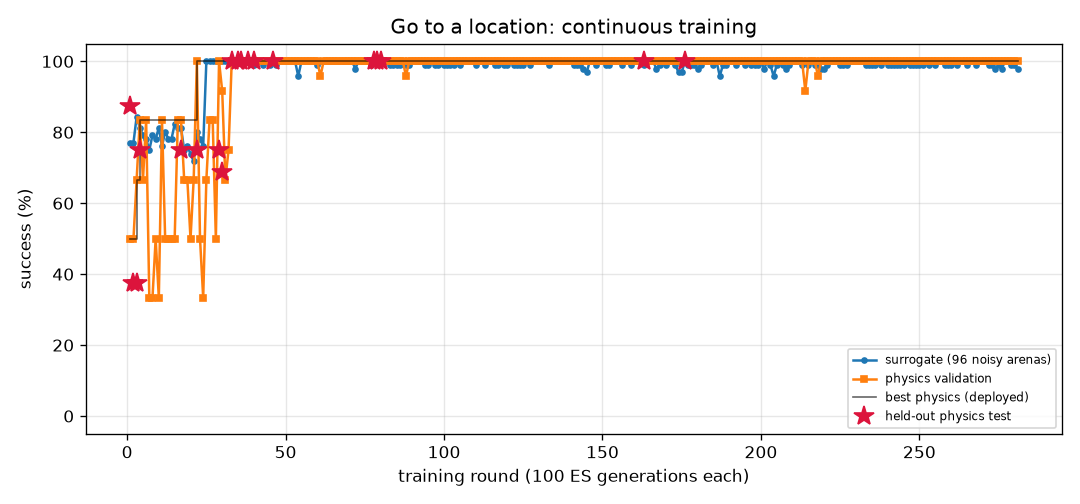
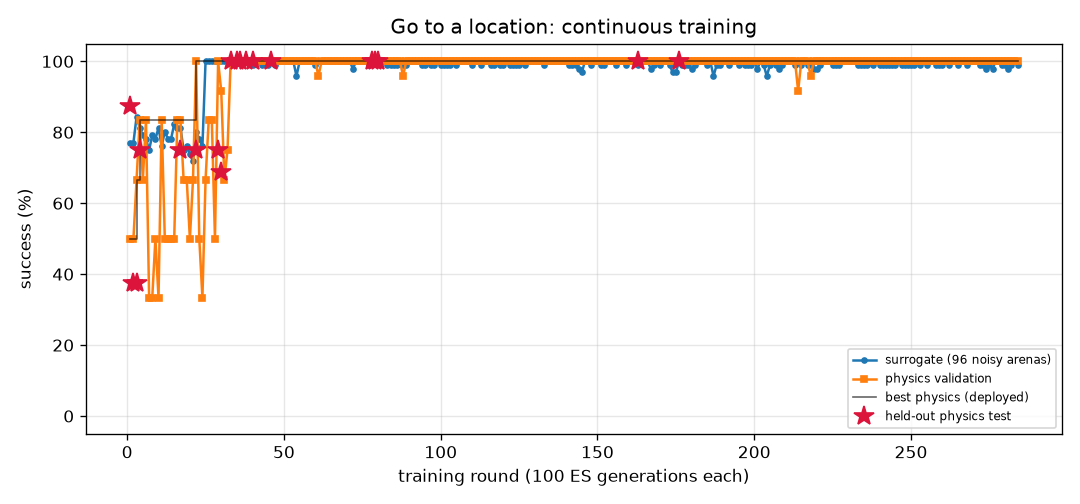
FlyLab: continuous training progress
- walk_forward: optimal, physics val 100% of 24, round 356
- turn: optimal, physics val 100% of 24, round 973
- goto: optimal, physics val 100% of 24, round 284
- odor_seek: optimal, physics val 100% of 24, round 232
- odor_avoid: optimal, physics val 100% of 24, round 867
- light_seek: optimal, physics val 100% of 24, round 478
- light_avoid: optimal, physics val 100% of 24, round 602

diff --git a/projects/09_flylab/training/odor_seek/REPORT.md b/projects/09_flylab/training/odor_seek/REPORT.md
@@ -1,14 +1,14 @@
 # Find food by smell (`odor_seek`) — training report
 
-*Auto-generated by `train_brains.py`, last updated 2026-11-09T19:07:03.*
+*Auto-generated by `train_brains.py`, last updated 2026-11-09T22:42:48.*
 
 ![curve](curve.png)
 
 | | |
 |---|---|
-| rounds | 228 |
-| ES generations | 22800 |
-| physics runs | 4902 |
+| rounds | 232 |
+| ES generations | 23200 |
+| physics runs | 4998 |
 | status | **optimal** |
 | best brain | round 137: physics validation **100%** on 24 arenas, surrogate 100% |
 | held-out physics test | **100%** on 32 unseen arenas (95% CI 89%-100%) (errors: [0.14, 0.05, 0.19, 0.15, 0.13, 0.08, 0.06, 0.06, 0.04, 0.06, 0.02, 0.11, 0.05, 0.1, 0.06, 0.01, 0.11, 0.12, 0.14, 0.08, 0.12, 0.06, 0.06, 0.09, 0.12, 0.05, 0.07, 0.07, 0.12, 0.11, 0.06, 0.11]) |
@@ -17,10 +17,6 @@ Physics error per arena: mm from target at the end (< 1.5 and standing still = s
 
 | round | level | gens | sigma | surrogate | physics val | val errors | test | note |
 |---:|---:|---:|---:|---:|---:|---|---:|---|
-| 189 | 3 | 18900 | 0.024 | 100% | 100% | [0.16, 0.16, 0.14, 0.19, 0.12, 0.08, 0.12, 0.2, 0.12, 0.16, 0.17, 0.2, 0.16, 0.22, 0.18, 0.16, 0.2, 0.18, 0.17, 0.12, 0.13, 0.15, 0.18, 0.19] |  | restart from best |
-| 190 | 3 | 19000 | 0.024 | 100% | 100% | [0.19, 0.17, 0.11, 0.12, 0.1, 0.14, 0.12, 0.18, 0.2, 0.12, 0.18, 0.08, 0.07, 0.18, 0.2, 0.08, 0.09, 0.09, 0.15, 0.14, 0.14, 0.14, 0.07, 0.16] |  |  |
-| 191 | 3 | 19100 | 0.024 | 100% | 100% | [0.1, 0.09, 0.14, 0.09, 0.1, 0.1, 0.08, 0.15, 0.1, 0.1, 0.09, 0.1, 0.08, 0.09, 0.08, 0.08, 0.11, 0.13, 0.17, 0.09, 0.11, 0.16, 0.14, 0.13] |  |  |
-| 192 | 3 | 19200 | 0.024 | 100% | 96% | [0.08, 0.15, 0.13, 0.07, 0.09, 0.15, 0.1, 0.09, 0.2, 0.09, 0.09, 0.11, 1.32, 0.1, 0.13, 0.14, 0.06, 0.12, 0.12, 0.13, 0.17, 0.19, 0.09, 0.14] |  |  |
 | 193 | 3 | 19300 | 0.024 | 100% | 100% | [0.14, 0.11, 0.2, 0.13, 0.18, 0.17, 0.09, 0.16, 0.16, 0.13, 0.14, 0.15, 0.16, 0.18, 0.18, 0.21, 0.14, 0.17, 0.14, 0.12, 0.2, 0.15, 0.13, 0.18] |  | restart from best |
 | 194 | 3 | 19400 | 0.024 | 100% | 100% | [0.17, 0.21, 0.27, 0.18, 0.2, 0.11, 0.2, 0.19, 0.15, 0.26, 0.14, 0.17, 0.23, 0.12, 0.14, 0.22, 0.14, 0.17, 0.2, 0.13, 0.16, 0.16, 0.19, 0.21] |  |  |
 | 195 | 3 | 19500 | 0.024 | 100% | 100% | [0.24, 0.13, 0.21, 0.12, 0.14, 0.18, 0.18, 0.16, 0.15, 0.19, 0.16, 0.17, 0.13, 0.2, 0.19, 0.18, 0.17, 0.19, 0.21, 0.14, 0.19, 0.22, 0.16, 0.11] |  |  |
@@ -57,3 +53,7 @@ Physics error per arena: mm from target at the end (< 1.5 and standing still = s
 | 226 | 3 | 22600 | 0.024 | 100% | 100% | [0.13, 0.1, 0.03, 0.11, 0.07, 0.1, 0.02, 0.11, 0.06, 0.05, 0.02, 0.11, 0.02, 0.13, 0.04, 0.08, 0.04, 0.07, 0.06, 0.12, 0.16, 0.15, 0.02, 0.1] |  |  |
 | 227 | 3 | 22700 | 0.024 | 100% | 100% | [0.13, 0.15, 0.15, 0.11, 0.04, 0.12, 0.16, 0.14, 0.21, 0.08, 0.18, 0.16, 0.2, 0.14, 0.18, 0.07, 0.09, 0.12, 0.15, 0.15, 0.19, 0.2, 0.23, 0.15] |  |  |
 | 228 | 3 | 22800 | 0.024 | 100% | 100% | [0.16, 0.21, 0.12, 0.13, 0.16, 0.19, 0.13, 0.27, 0.22, 0.12, 0.13, 0.14, 0.09, 0.11, 0.16, 0.11, 0.13, 0.13, 0.19, 0.18, 0.12, 0.11, 0.2, 0.1] |  |  |
+| 229 | 3 | 22900 | 0.024 | 100% | 100% | [0.11, 0.19, 0.14, 0.21, 0.17, 0.09, 0.18, 0.19, 0.14, 0.11, 0.23, 0.16, 0.09, 0.19, 0.17, 0.24, 0.18, 0.12, 0.11, 0.17, 0.25, 0.08, 0.15, 0.11] |  | restart from best |
+| 230 | 3 | 23000 | 0.024 | 100% | 100% | [0.23, 0.22, 0.22, 0.19, 0.21, 0.21, 0.24, 0.17, 0.17, 0.25, 0.22, 0.22, 0.28, 0.19, 0.22, 0.21, 0.15, 0.18, 0.27, 0.33, 0.23, 0.24, 0.18, 0.22] |  |  |
+| 231 | 3 | 23100 | 0.024 | 100% | 100% | [0.14, 0.17, 0.22, 0.24, 0.18, 0.19, 0.17, 0.23, 0.17, 0.17, 0.22, 0.21, 0.22, 0.22, 0.15, 0.18, 0.15, 0.17, 0.13, 0.3, 0.18, 0.15, 0.14, 0.25] |  |  |
+| 232 | 3 | 23200 | 0.024 | 100% | 100% | [0.23, 0.14, 0.16, 0.19, 0.16, 0.19, 0.17, 0.22, 0.19, 0.17, 0.19, 0.2, 0.16, 0.21, 0.16, 0.22, 0.14, 0.18, 0.19, 0.14, 0.16, 0.17, 0.13, 0.18] |  |  |

diff --git a/projects/09_flylab/training/goto/REPORT.md b/projects/09_flylab/training/goto/REPORT.md
@@ -1,14 +1,14 @@
 # Go to a location (`goto`) — training report
 
-*Auto-generated by `train_brains.py`, last updated 2026-11-09T21:45:51.*
+*Auto-generated by `train_brains.py`, last updated 2026-11-09T22:29:16.*
 
 ![curve](curve.png)
 
 | | |
 |---|---|
-| rounds | 281 |
-| ES generations | 28100 |
-| physics runs | 6694 |
+| rounds | 284 |
+| ES generations | 28400 |
+| physics runs | 6766 |
 | status | **optimal** |
 | best brain | round 176: physics validation **100%** on 24 arenas, surrogate 100% |
 | held-out physics test | **100%** on 32 unseen arenas (95% CI 89%-100%) (errors: [0.2, 0.32, 0.19, 0.24, 0.18, 0.2, 0.19, 0.17, 0.22, 0.23, 0.23, 0.26, 0.2, 0.19, 0.24, 0.23, 0.22, 0.24, 0.2, 0.22, 0.2, 0.2, 0.26, 0.19, 0.22, 0.18, 0.26, 0.22, 0.2, 0.26, 0.23, 0.23]) |
@@ -17,9 +17,6 @@ Physics error per arena: mm from target at the end (< 1.5 and standing still = s
 
 | round | level | gens | sigma | surrogate | physics val | val errors | test | note |
 |---:|---:|---:|---:|---:|---:|---|---:|---|
-| 242 | 3 | 24200 | 0.025 | 99% | 100% | [0.63, 0.56, 0.55, 0.48, 0.44, 0.44, 0.62, 0.5, 0.45, 0.44, 0.42, 0.47, 0.58, 0.42, 0.52, 0.49, 0.61, 0.47, 0.43, 0.55, 0.46, 0.45, 0.57, 0.47] |  |  |
-| 243 | 3 | 24300 | 0.025 | 99% | 100% | [0.69, 0.66, 0.64, 0.55, 0.51, 0.54, 0.65, 0.62, 0.61, 0.51, 0.49, 0.54, 0.64, 0.53, 0.55, 0.57, 0.71, 0.56, 0.5, 0.6, 0.55, 0.53, 0.69, 0.56] |  |  |
-| 244 | 3 | 24400 | 0.025 | 99% | 100% | [0.59, 0.55, 0.56, 0.42, 0.42, 0.41, 0.57, 0.51, 0.47, 0.4, 0.39, 0.43, 0.52, 0.4, 0.46, 0.5, 0.57, 0.46, 0.38, 0.47, 0.45, 0.4, 0.54, 0.41] |  | restart from best |
 | 245 | 3 | 24500 | 0.024 | 99% | 100% | [0.66, 0.56, 0.54, 0.55, 0.47, 0.52, 0.64, 0.53, 0.58, 0.48, 0.48, 0.55, 0.63, 0.42, 0.56, 0.51, 0.67, 0.56, 0.48, 0.63, 0.48, 0.54, 0.59, 0.56] |  |  |
 | 246 | 3 | 24600 | 0.025 | 100% | 100% | [0.28, 0.33, 0.26, 0.33, 0.28, 0.31, 0.31, 0.36, 0.36, 0.29, 0.28, 0.33, 0.31, 0.33, 0.3, 0.37, 0.3, 0.31, 0.28, 0.33, 0.35, 0.3, 0.3, 0.33] |  |  |
 | 247 | 3 | 24700 | 0.024 | 99% | 100% | [0.51, 0.44, 0.45, 0.38, 0.34, 0.34, 0.51, 0.38, 0.41, 0.35, 0.34, 0.39, 0.44, 0.34, 0.43, 0.41, 0.49, 0.36, 0.34, 0.44, 0.38, 0.38, 0.46, 0.36] |  |  |
@@ -57,3 +54,6 @@ Physics error per arena: mm from target at the end (< 1.5 and standing still = s
 | 279 | 3 | 27900 | 0.024 | 99% | 100% | [0.39, 0.36, 0.29, 0.4, 0.29, 0.36, 0.37, 0.42, 0.41, 0.3, 0.35, 0.39, 0.4, 0.3, 0.28, 0.31, 0.41, 0.36, 0.28, 0.4, 0.29, 0.31, 0.41, 0.39] |  |  |
 | 280 | 3 | 28000 | 0.025 | 99% | 100% | [0.45, 0.39, 0.43, 0.45, 0.36, 0.4, 0.4, 0.43, 0.44, 0.35, 0.38, 0.44, 0.46, 0.31, 0.42, 0.34, 0.47, 0.39, 0.35, 0.48, 0.32, 0.39, 0.41, 0.42] |  | restart from best |
 | 281 | 3 | 28100 | 0.024 | 98% | 100% | [0.5, 0.42, 0.44, 0.38, 0.33, 0.33, 0.45, 0.4, 0.44, 0.34, 0.32, 0.37, 0.47, 0.33, 0.4, 0.4, 0.51, 0.36, 0.34, 0.48, 0.35, 0.4, 0.46, 0.37] |  |  |
+| 282 | 3 | 28200 | 0.025 | 99% | 100% | [0.68, 0.69, 0.5, 0.56, 0.49, 0.56, 0.62, 0.64, 0.66, 0.48, 0.48, 0.53, 0.67, 0.54, 0.57, 0.56, 0.71, 0.58, 0.47, 0.63, 0.55, 0.48, 0.71, 0.58] |  |  |
+| 283 | 3 | 28300 | 0.025 | 100% | 100% | [0.58, 0.57, 0.44, 0.46, 0.47, 0.48, 0.56, 0.54, 0.48, 0.46, 0.44, 0.45, 0.53, 0.49, 0.54, 0.53, 0.59, 0.46, 0.44, 0.5, 0.53, 0.45, 0.58, 0.48] |  |  |
+| 284 | 3 | 28400 | 0.024 | 99% | 100% | [0.62, 0.6, 0.58, 0.42, 0.44, 0.42, 0.6, 0.47, 0.46, 0.42, 0.42, 0.43, 0.49, 0.45, 0.5, 0.55, 0.56, 0.48, 0.4, 0.5, 0.53, 0.44, 0.55, 0.43] |  | restart from best |

diff --git a/projects/09_flylab/training/turn/REPORT.md b/projects/09_flylab/training/turn/REPORT.md
@@ -1,14 +1,14 @@
 # Turn in place (`turn`) — training report
 
-*Auto-generated by `train_brains.py`, last updated 2026-11-09T19:22:23.*
+*Auto-generated by `train_brains.py`, last updated 2026-11-09T22:42:24.*
 
 ![curve](curve.png)
 
 | | |
 |---|---|
-| rounds | 971 |
-| ES generations | 97100 |
-| physics runs | 23550 |
+| rounds | 973 |
+| ES generations | 97300 |
+| physics runs | 23598 |
 | status | **optimal** |
 | best brain | round 80: physics validation **100%** on 24 arenas, surrogate 100% |
 | held-out physics test | **97%** on 32 unseen arenas (95% CI 84%-99%) (errors: [1.6, 3.3, 6.3, 3.7, 1.1, 0.4, 2.4, 2.9, 0.1, 2.6, 0.5, 2.7, 1.5, 3.1, 4.5, 0.2, 0.5, 1.1, 2.0, 4.4, 2.8, 3.2, 0.3, 2.2, 0.5, 3.0, 0.3, 5.4, 0.4, 1.0, 4.7, 10.7]) |
@@ -17,8 +17,6 @@ Physics error per arena: deg from target heading (< 20 = success).
 
 | round | level | gens | sigma | surrogate | physics val | val errors | test | note |
 |---:|---:|---:|---:|---:|---:|---|---:|---|
-| 932 | 3 | 93200 | 0.024 | 100% | 75% | [5.5, 7.9, 6.3, 0.3, 2.2, 1.1, 5.3, 5.4, 3.3, 0.6, 3.7, 1.0, 0.7, 2.5, 4.0, 1.2, 0.9, 0.7, 0.5, 0.3, 3.4, 1.2, 5.4, 2.7] |  | restart from best |
-| 933 | 3 | 93300 | 0.024 | 99% | 71% | [6.7, 9.2, 7.6, 2.7, 6.2, 0.8, 3.0, 5.7, 1.8, 0.3, 2.8, 3.2, 3.2, 5.8, 2.7, 0.2, 3.7, 0.6, 0.8, 0.4, 6.8, 3.7, 4.2, 1.4] |  |  |
 | 934 | 3 | 93400 | 0.025 | 100% | 75% | [4.5, 9.2, 1.1, 3.0, 1.4, 0.1, 2.5, 5.6, 3.8, 1.7, 2.5, 1.9, 1.0, 2.7, 3.9, 0.5, 2.3, 0.4, 0.9, 2.4, 3.5, 1.4, 4.9, 4.3] |  |  |
 | 935 | 3 | 93500 | 0.024 | 98% | 75% | [6.8, 5.7, 0.4, 1.5, 2.7, 0.7, 5.7, 6.5, 5.2, 14.5, 3.9, 3.5, 0.7, 4.1, 4.3, 0.3, 1.4, 1.2, 0.2, 1.2, 4.5, 2.6, 5.3, 5.8] |  |  |
 | 936 | 3 | 93600 | 0.025 | 99% | 75% | [6.4, 1.3, 2.3, 1.2, 1.2, 2.7, 5.3, 3.6, 5.0, 1.8, 5.8, 0.5, 0.2, 2.6, 4.4, 2.1, 0.8, 1.7, 2.3, 0.9, 2.9, 1.0, 4.4, 8.2] |  | restart from best |
@@ -57,3 +55,5 @@ Physics error per arena: deg from target heading (< 20 = success).
 | 969 | 3 | 96900 | 0.024 | 97% | 92% | [4.2, 5.8, 2.4, 3.7, 5.0, 0.8, 2.7, 6.6, 4.7, 0.8, 2.9, 0.8, 1.7, 3.7, 3.1, 1.1, 0.6, 0.0, 1.2, 1.0, 5.2, 0.1, 4.3, 4.0] |  |  |
 | 970 | 3 | 97000 | 0.026 | 99% | 79% | [4.9, 3.7, 4.7, 2.1, 0.2, 3.0, 6.9, 2.4, 5.8, 0.1, 4.9, 0.2, 1.6, 1.0, 5.7, 2.9, 0.3, 3.8, 2.8, 2.7, 4.9, 0.3, 5.2, 8.5] |  |  |
 | 971 | 3 | 97100 | 0.025 | 98% | 92% | [0.2, 9.1, 13.2, 1.1, 3.7, 1.4, 4.8, 1.0, 4.2, 0.2, 4.8, 0.6, 3.1, 3.0, 3.2, 0.3, 0.5, 1.6, 0.4, 0.1, 6.9, 4.5, 3.3, 4.2] |  |  |
+| 972 | 3 | 97200 | 0.025 | 100% | 88% | [1.6, 2.3, 3.8, 3.9, 2.6, 0.1, 6.5, 1.0, 3.7, 0.6, 5.8, 0.3, 1.2, 3.6, 5.5, 1.2, 0.1, 1.7, 1.3, 1.0, 3.8, 0.0, 6.8, 6.5] |  | restart from best |
+| 973 | 3 | 97300 | 0.024 | 99% | 75% | [0.7, 6.7, 1.6, 1.3, 3.0, 3.9, 7.2, 11.6, 8.6, 1.7, 6.0, 1.8, 2.4, 0.6, 6.5, 4.4, 2.4, 6.4, 5.7, 2.8, 4.3, 3.1, 7.3, 10.4] |  |  |

diff --git a/projects/09_flylab/training/TRAINING.md b/projects/09_flylab/training/TRAINING.md
@@ -1,15 +1,15 @@
 # FlyLab brains — continuous training log
 
-*Auto-generated by `train_brains.py`, last updated 2026-11-09T21:45:51.*
+*Auto-generated by `train_brains.py`, last updated 2026-11-09T22:42:48.*
 
 Every skill has its own brain and its own training process: surrogate ES rounds, physics validation in MuJoCo, keep-the-best selection, and a held-out physics test that is never used for selection. See each skill's report for its full round-by-round history. Mastery is progressive: passing a level (100% physics validation, >=95% surrogate) doubles the validation and test arena sets; a brain is **optimal** once it holds up at level 3 (>=95% of 24 validation arenas) AND scores >=90% on the 32 held-out test arenas. Test columns show 95% Wilson confidence intervals.
 
 | skill | rounds | ES generations | physics runs | surrogate | physics val | **physics test** | status |
 |---|---:|---:|---:|---:|---:|---:|---|
 | [Walk forward](walk_forward/REPORT.md) | 356 | 35600 | 8558 | 100% | 100% of 24 | 100% of 32 (CI 89-100%) | **optimal** |
-| [Turn in place](turn/REPORT.md) | 971 | 97100 | 23550 | 100% | 100% of 24 | 97% of 32 (CI 84-99%) | **optimal** |
-| [Go to a location](goto/REPORT.md) | 281 | 28100 | 6694 | 100% | 100% of 24 | 100% of 32 (CI 89-100%) | **optimal** |
-| [Find food by smell](odor_seek/REPORT.md) | 228 | 22800 | 4902 | 100% | 100% of 24 | 100% of 32 (CI 89-100%) | **optimal** |
+| [Turn in place](turn/REPORT.md) | 973 | 97300 | 23598 | 100% | 100% of 24 | 97% of 32 (CI 84-99%) | **optimal** |
+| [Go to a location](goto/REPORT.md) | 284 | 28400 | 6766 | 100% | 100% of 24 | 100% of 32 (CI 89-100%) | **optimal** |
+| [Find food by smell](odor_seek/REPORT.md) | 232 | 23200 | 4998 | 100% | 100% of 24 | 100% of 32 (CI 89-100%) | **optimal** |
 | [Escape a bad smell](odor_avoid/REPORT.md) | 867 | 86700 | 18114 | 97% | 100% of 24 | 97% of 32 (CI 84-99%) | **optimal** |
 | [Walk toward light](light_seek/REPORT.md) | 478 | 47800 | 8352 | 100% | 100% of 24 | 100% of 32 (CI 89-100%) | **optimal** |
 | [Hide from light](light_avoid/REPORT.md) | 602 | 60200 | 14720 | 100% | 100% of 24 | 100% of 32 (CI 89-100%) | **optimal** |
